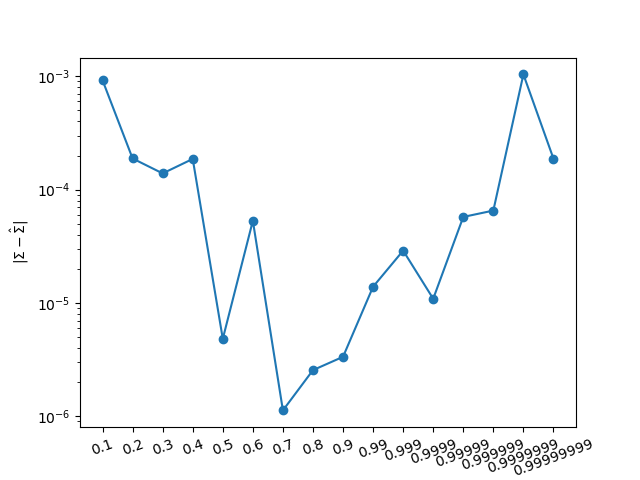
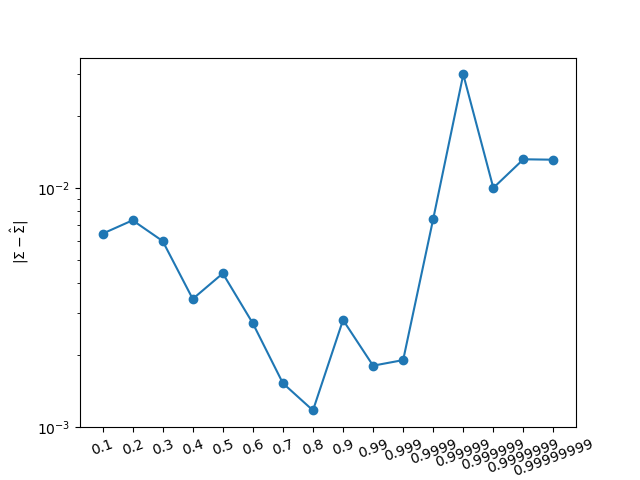
commit

diff --git a/nhmc.html b/nhmc.html
@@ -3,7 +3,7 @@
 "http://www.w3.org/TR/xhtml1/DTD/xhtml1-strict.dtd">
 <html xmlns="http://www.w3.org/1999/xhtml" lang="en" xml:lang="en">
 <head>
-<!-- 2020-06-02 Tue 11:20 -->
+<!-- 2020-06-06 Sat 00:52 -->
 <meta http-equiv="Content-Type" content="text/html;charset=utf-8" />
 <meta name="viewport" content="width=device-width, initial-scale=1" />
 <title>&lrm;</title>
@@ -68,11 +68,11 @@
 </p>
 
 <p>
-3N个动量标量是对称的，在位置确定的情况下，这些动量值均匀分布分布位于一个3n维空间的3N-1维的球面\(\mathbb{S}_R^{3N-1}\) 。
+3N个动量标量是对称的，在位置确定的情况下，这些动量值均匀分布分布位于一个3n维空间的3N-1维的球面\(\mathbb{S}_R^{3N-1}\) ，也就是说，碰撞前后的动量都分布在球面 \(\mathbb{S}_R^{3N-1}\) 上。
 </p>
 
 <p>
-如果“碰撞”后的动量从 \(\mathbb{S}^{3N-1}\) 上均匀选取的话，就能保证从任何一个动量（状态1）到任意其它动量(状态２)的跳转概率相同。
+如果“碰撞”后的动量从 \(\mathbb{S}_R^{3N-1}\) 上均匀选取的话，就能保证从任何一个动量（状态1）到任意其它动量(状态２)的跳转概率相同。
 </p>
 
 <p>
@@ -156,7 +156,7 @@
 
     <span style="color: #715ab1;">info</span> = ghmc<span style="color: #3a81c3;">(</span>U, dU, D=D, dt=dt,EPISODE=EPISODE, POINTS=POINTS,VERBOSE=<span style="color: #4e3163;">False</span><span style="color: #3a81c3;">)</span>
     <span style="color: #715ab1;">x</span> = info<span style="color: #3a81c3;">[</span><span style="color: #2d9574;">'x'</span><span style="color: #3a81c3;">]</span>
-    <span style="color: #715ab1;">d</span> = np.<span style="color: #3a81c3;">sum</span><span style="color: #3a81c3;">(</span>np.square<span style="color: #6c3163;">(</span>np.cov<span style="color: #2d9574;">(</span>np.transpose<span style="color: #67b11d;">(</span>x<span style="color: #b1951d;">[</span><span style="color: #3a81c3;">int</span><span style="color: #3a81c3;">(</span>POINTS*EPISODE/<span style="color: #4e3163;">2</span><span style="color: #3a81c3;">)</span>:,:<span style="color: #b1951d;">]</span><span style="color: #67b11d;">)</span><span style="color: #2d9574;">)</span> - SIGMA<span style="color: #6c3163;">)</span><span style="color: #3a81c3;">)</span>
+    <span style="color: #715ab1;">d</span> = np.sqrt<span style="color: #3a81c3;">(</span>np.mean<span style="color: #6c3163;">(</span>np.square<span style="color: #2d9574;">(</span>np.cov<span style="color: #67b11d;">(</span>np.transpose<span style="color: #b1951d;">(</span>x<span style="color: #3a81c3;">[</span><span style="color: #3a81c3;">int</span><span style="color: #6c3163;">(</span>POINTS*EPISODE/<span style="color: #4e3163;">2</span><span style="color: #6c3163;">)</span>:,:<span style="color: #3a81c3;">]</span><span style="color: #b1951d;">)</span><span style="color: #67b11d;">)</span> - SIGMA<span style="color: #2d9574;">)</span><span style="color: #6c3163;">)</span><span style="color: #3a81c3;">)</span>
 </pre>
 </div>
 
@@ -189,7 +189,7 @@
 </p>
 </div>
 <div id="postamble" class="status">
-<p class="date">Created: 2020-06-02 Tue 11:20</p>
+<p class="date">Created: 2020-06-06 Sat 00:52</p>
 </div>
 </body>
 </html>

diff --git a/hmc2.html b/hmc2.html
@@ -3,7 +3,7 @@
 "http://www.w3.org/TR/xhtml1/DTD/xhtml1-strict.dtd">
 <html xmlns="http://www.w3.org/1999/xhtml" lang="en" xml:lang="en">
 <head>
-<!-- 2020-06-01 Mon 09:50 -->
+<!-- 2020-06-02 Tue 22:08 -->
 <meta http-equiv="Content-Type" content="text/html;charset=utf-8" />
 <meta name="viewport" content="width=device-width, initial-scale=1" />
 <title>&lrm;</title>
@@ -47,13 +47,13 @@
 <div class="outline-text-2" id="text-org1332d15">
 <p>
 步长参数与仿真是否出现能量极值有关。如果在仿真过程中仅有开始或者结束时出现极值，说明步长过小，需要增加步长。
-极大值的平均发生时刻与极大值的平均发生时刻差别过大，则有发散的风险，需要减小步长。
+极小值的平均发生时刻与极大值的平均发生时刻差别过大，则有发散的风险，需要减小步长。
 </p>
 </div>
 </div>
 </div>
 <div id="postamble" class="status">
-<p class="date">Created: 2020-06-01 Mon 09:50</p>
+<p class="date">Created: 2020-06-02 Tue 22:08</p>
 </div>
 </body>
 </html>

diff --git a/sitemap.html b/sitemap.html
@@ -3,7 +3,7 @@
 "http://www.w3.org/TR/xhtml1/DTD/xhtml1-strict.dtd">
 <html xmlns="http://www.w3.org/1999/xhtml" lang="en" xml:lang="en">
 <head>
-<!-- 2020-06-02 Tue 11:20 -->
+<!-- 2020-06-06 Sat 00:52 -->
 <meta http-equiv="Content-Type" content="text/html;charset=utf-8" />
 <meta name="viewport" content="width=device-width, initial-scale=1" />
 <title>Sitemap</title>
@@ -32,7 +32,7 @@
 </ul>
 </div>
 <div id="postamble" class="status">
-<p class="date">Created: 2020-06-02 Tue 11:20</p>
+<p class="date">Created: 2020-06-06 Sat 00:52</p>
 </div>
 </body>
 </html>
